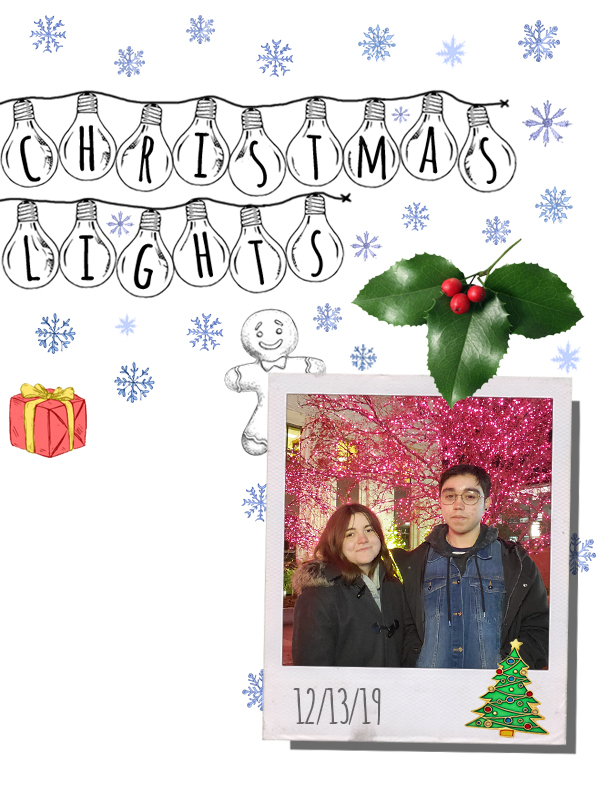
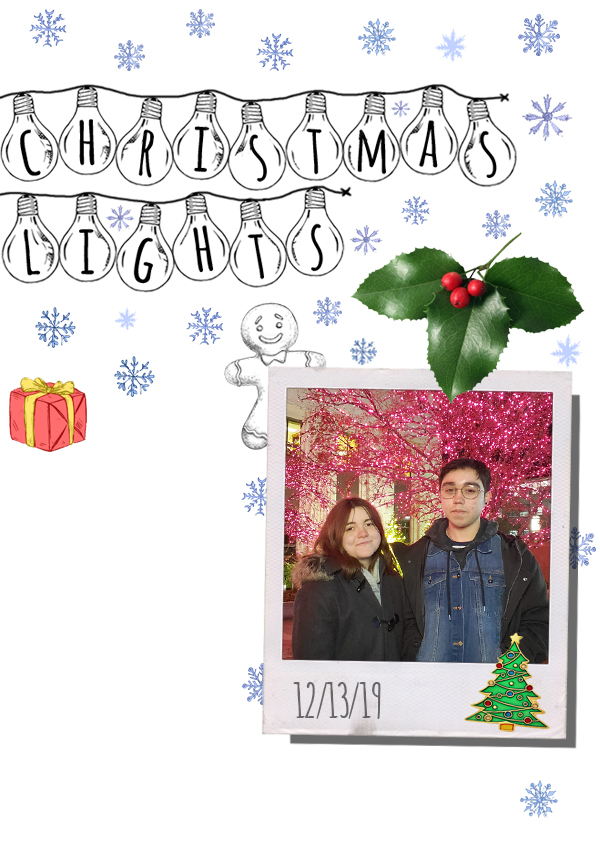
made some tweeks to backgrounds

diff --git a/client/src/App/components/adventure_log/SecondDate.tsx b/client/src/App/components/adventure_log/SecondDate.tsx
@@ -5,7 +5,7 @@ import background from '../../assets/second-date.jpg';
 const SecondDate = () => {
     return (
         <Container>
-            <img src={background} width="100%" />
+            <img src={background} width="100%"/>
             <StyledParagraph>
                 The second date was rollerskating with a boy <br /> who
                 didn't know how to, nothing could
@@ -37,7 +37,7 @@ const Container = styled.div`
     align-items: center;
     justify-content: center;
     margin-top: 50px;
-    margin-bottom: 260px;
+    margin-bottom: 200px;
     position: relative; 
 `
 
@@ -46,21 +46,21 @@ const StyledParagraph = styled.p`
     font-size: 25px;
     position: absolute; 
     left: 4%;
-    top: 16%;
+    top: 14%;
 `
 const StyledParagraph2 = styled.p`
     font-family: amatic;
     font-size: 25px;
     position: absolute; 
     left: 52%;
-    top: 31%;
+    top: 28%;
 `
 const StyledParagraph3 = styled.p`
     font-family: amatic;
     font-size: 25px;
     position: absolute; 
     left: 30%;
-    top: 84%;
+    top: 78%;
     right: 2%;
 `
 const StyledParagraph4 = styled.p`
@@ -68,6 +68,6 @@ const StyledParagraph4 = styled.p`
     font-size: 25px;
     position: absolute; 
     left: 4%;
-    top: 98%;
+    top: 92%;
     right: 2%;
 `

diff --git a/client/src/App/components/adventure_log/ThePlanetarium.tsx b/client/src/App/components/adventure_log/ThePlanetarium.tsx
@@ -34,7 +34,7 @@ const Container = styled.div`
     align-items: center;
     justify-content: center;
     position: relative; 
-    margin-bottom: 245px;
+    margin-bottom: 200px;
 `
 
 const StyledParagraph = styled.p`
@@ -42,13 +42,13 @@ const StyledParagraph = styled.p`
     font-size: 25px;
     position: absolute; 
     left: 68.5%;
-    top: 19%;
+    top: 18%;
 `
 const StyledParagraph2 = styled.p`
     font-family: amatic;
     font-size: 25px;
     position: absolute; 
     left: 4%;
-    top: 76%;
+    top: 67%;
     right: 2%;
 `

diff --git a/client/src/App/components/adventure_log/ChristmasLights.tsx b/client/src/App/components/adventure_log/ChristmasLights.tsx
@@ -48,13 +48,13 @@ const StyledParagraph = styled.p`
     font-size: 25px;
     position: absolute; 
     left: 16%;
-    top: 50%;
+    top: 47%;
 `
 const StyledParagraph2 = styled.p`
     font-family: amatic;
     font-size: 25px;
     position: absolute; 
     left: 4%;
-    top: 57%;
+    top: 53%;
     right: 2%;
 `
